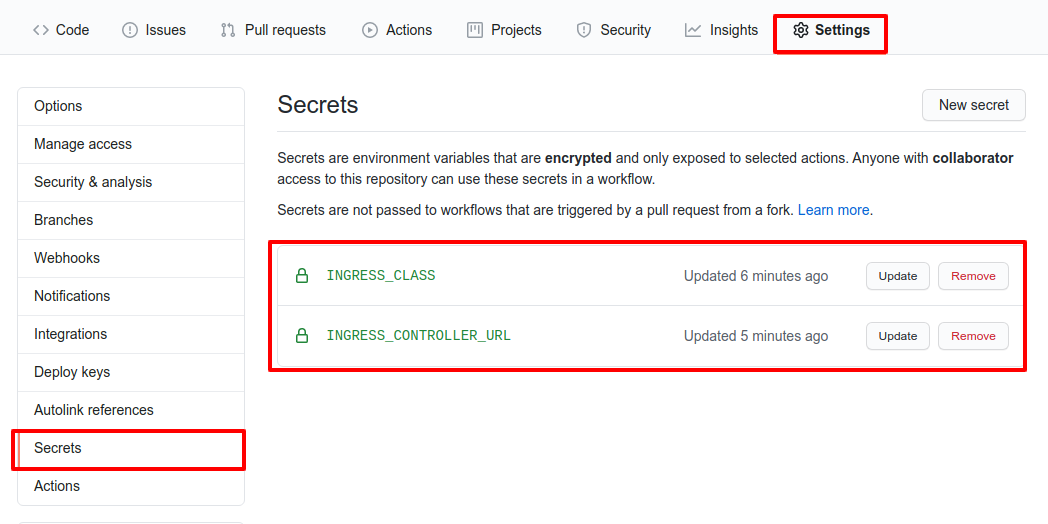
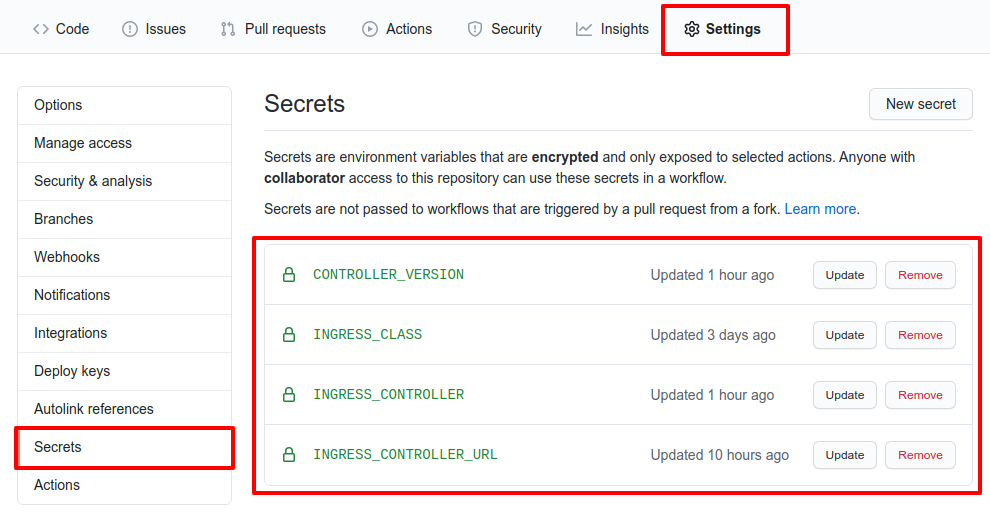
Update readme

diff --git a/README.md b/README.md
@@ -24,3 +24,5 @@ where:
 
 - **INGRESS_CLASS:** name of the class that are valid for the ingress controller
 - **INGRESS_CONTROLLER_URL:** URL to install the ingress controller using `kubectl apply -f <URL>`
+- **INGRESS_CONTROLLER:** name of the ingress controller (default `N/A`)
+- **CONTROLLER_VERSION:** version of the ingress controller (default `N/A`)
